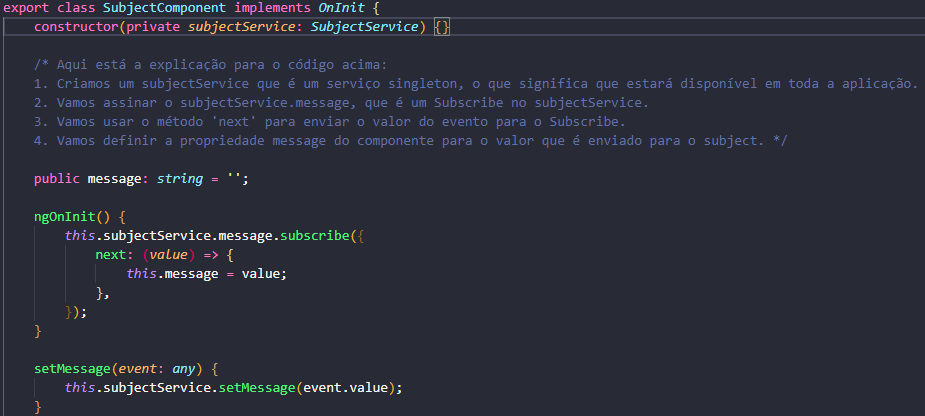
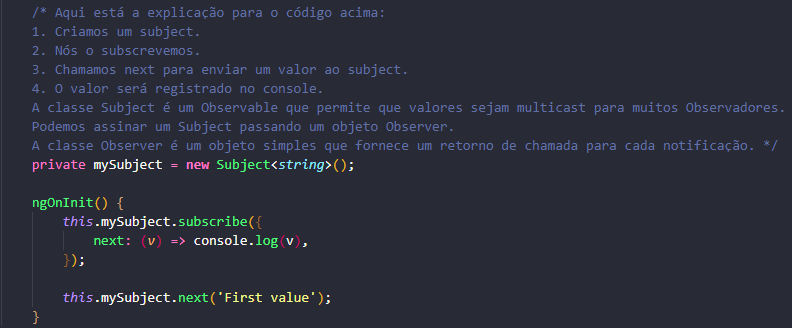
refactor: subject

diff --git a/src/app/pages/subject/subject.component.ts b/src/app/pages/subject/subject.component.ts
@@ -1,5 +1,5 @@
 import { Component, OnInit } from '@angular/core';
-import { SubjectService } from './subject.service';
+import { Subject } from 'rxjs';
 
 @Component({
 	selector: 'app-subject',
@@ -7,25 +7,24 @@ import { SubjectService } from './subject.service';
 	styleUrls: ['./subject.component.scss'],
 })
 export class SubjectComponent implements OnInit {
-	constructor(private subjectService: SubjectService) {}
+	constructor() {}
 
+	
 	/* Aqui está a explicação para o código acima:
-	1. Criamos um subjectService que é um serviço singleton, o que significa que estará disponível em toda a aplicação.
-	2. Vamos assinar o subjectService.message, que é um Subscribe no subjectService.
-	3. Vamos usar o método 'next' para enviar o valor do evento para o Subscribe.
-	4. Vamos definir a propriedade message do componente para o valor que é enviado para o subject. */
-
-	public message: string = '';
+	1. Criamos um subject.
+	2. Nós o subscrevemos.
+	3. Chamamos next para enviar um valor ao subject.
+	4. O valor será registrado no console.
+	A classe Subject é um Observable que permite que valores sejam multicast para muitos Observadores.
+	Podemos assinar um Subject passando um objeto Observer.
+	A classe Observer é um objeto simples que fornece um retorno de chamada para cada notificação. */ 
+	private mySubject = new Subject<string>();
 
 	ngOnInit() {
-		this.subjectService.message.subscribe({
-			next: (value) => {
-				this.message = value;
-			},
+		this.mySubject.subscribe({
+			next: (v) => console.log(v),
 		});
-	}
 
-	setMessage(event: any) {
-		this.subjectService.setMessage(event.value);
+		this.mySubject.next('First value');
 	}
 }

diff --git a/src/app/pages/subject/subject.component.html b/src/app/pages/subject/subject.component.html
@@ -19,29 +19,11 @@
 		</p>
 		<p>
 			<strong
-				>Obs2.: Abra o arquivo subject.component.ts e subject-service.ts
-				e veja o código fonte.</strong
+				>Obs2.: Abra o arquivo subject.component.ts e veja o código fonte.</strong
 			>
 		</p>
-		<hr>
-		<div *ngIf="message">
-			<span style="color: red;">{{ message }}</span>
-		</div>
-		<p>
-			<input type="text" placeholder="Digite a mensagem" #mensagem />
-			<button type="button" (click)="setMessage(mensagem)">
-				Enviar
-			</button>
-		</p>
-		<hr>
 		<p>
 			<img src="assets/subject-1.png" alt="" />
-		</p>
-		<p>
-			<img src="assets/subject-2.png" alt="" />
-		</p>
-		<p>
-			<img src="assets/subject-3.png" alt="" />
 		</p>
 	</mat-card-content>
 	<mat-divider inset></mat-divider>
